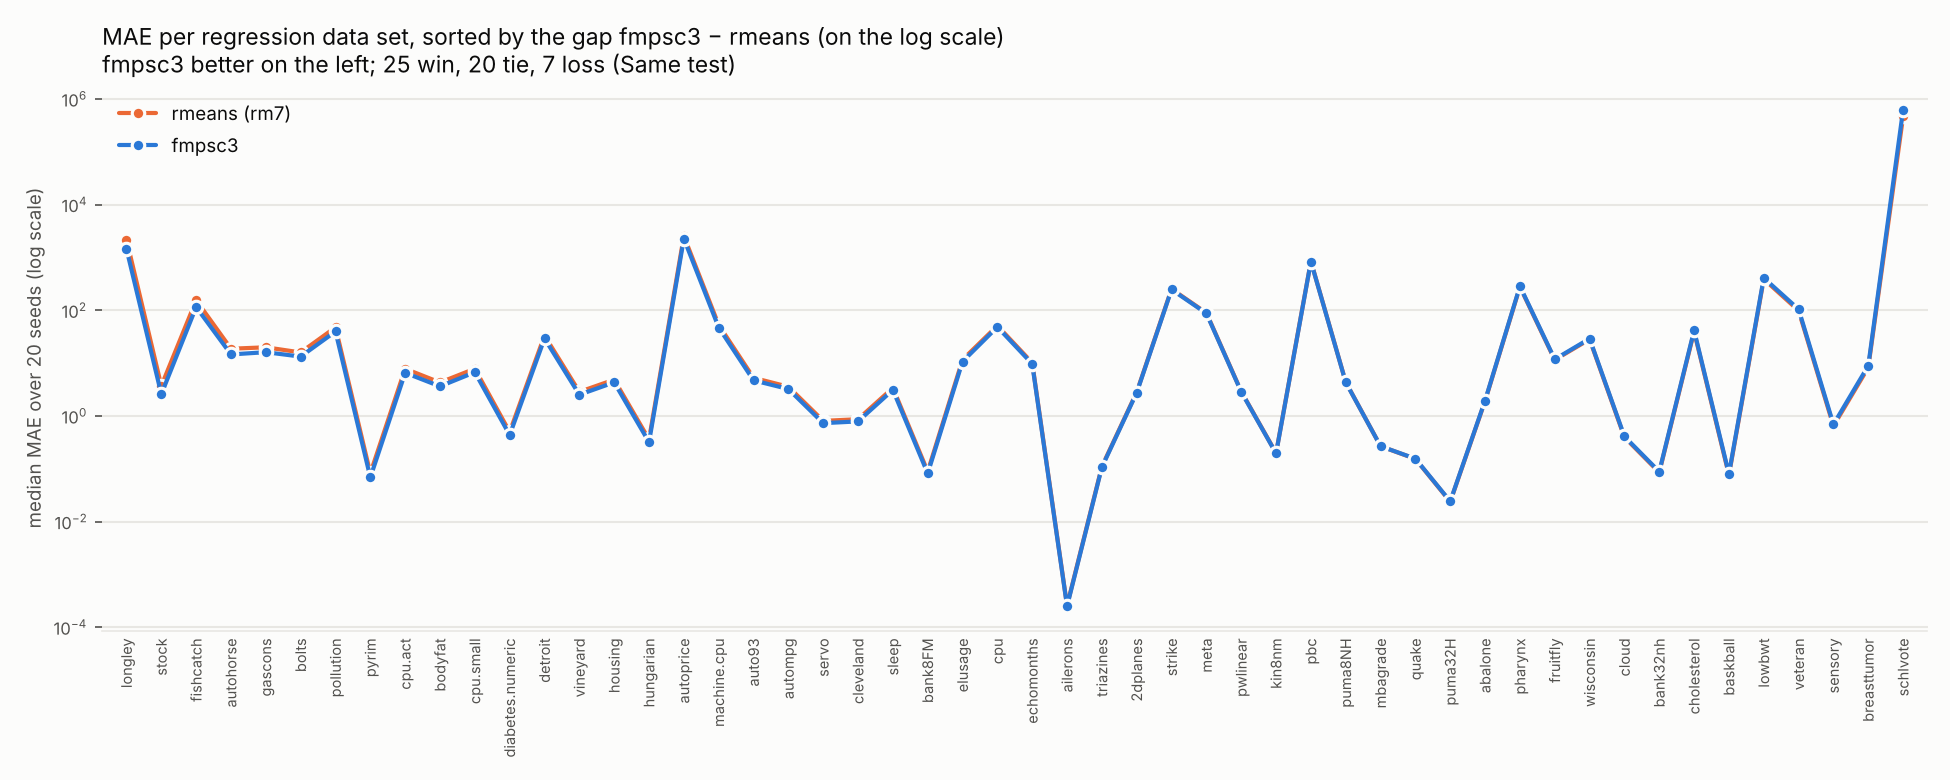
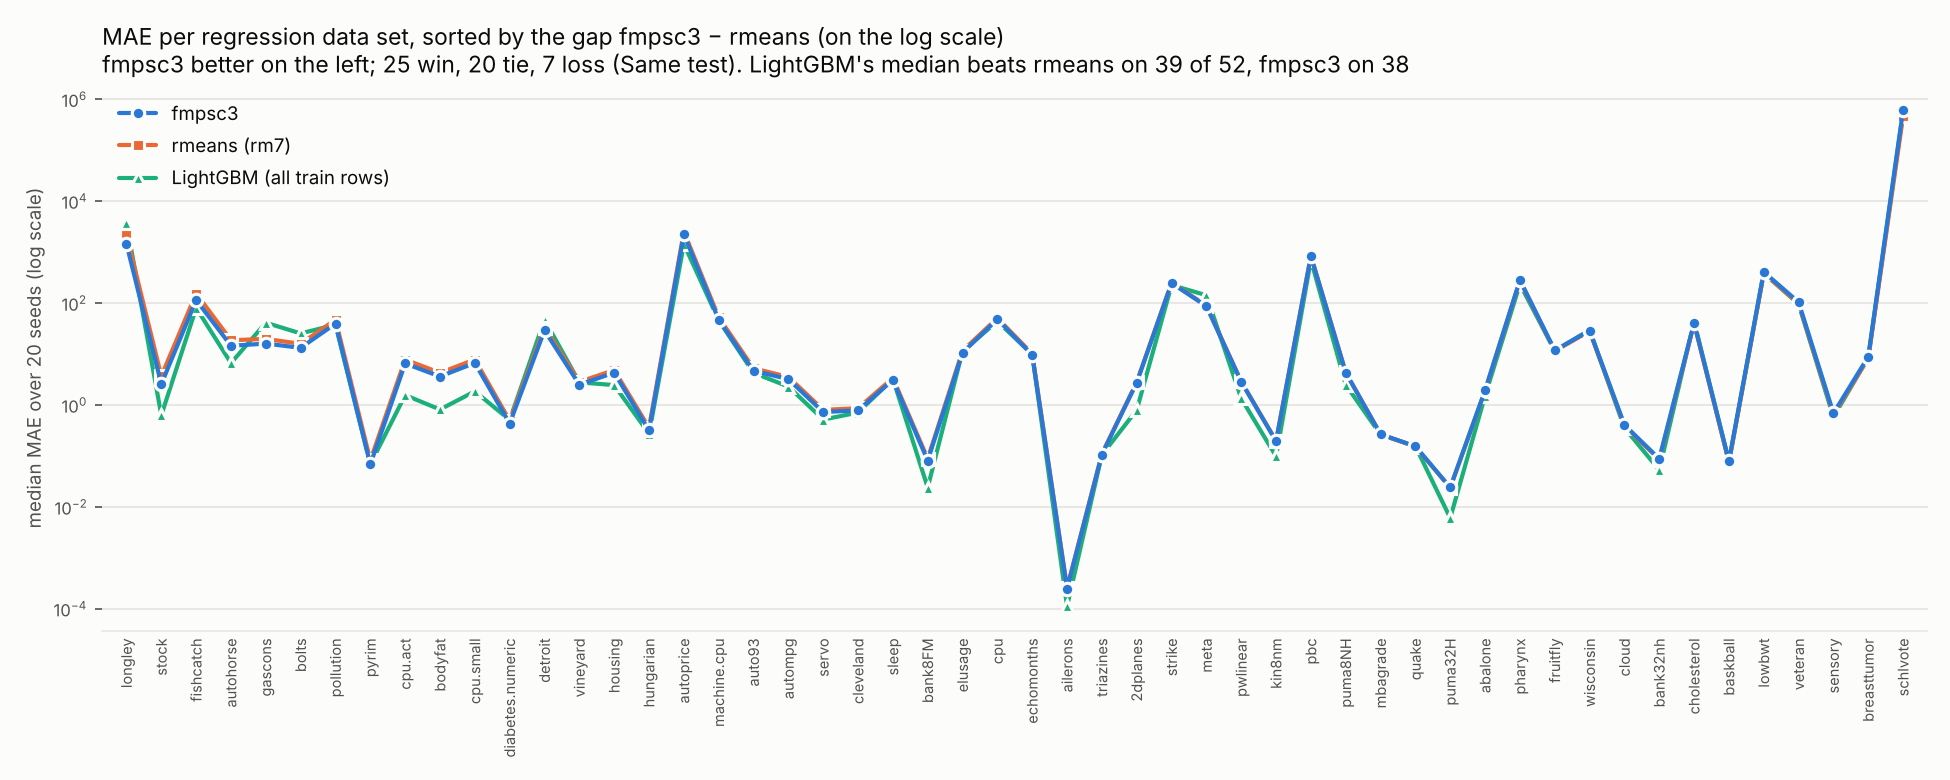
docs/mae.png: add LightGBM as a third line (same seeds, all train rows)
Claude-Session: https://claude.ai/code/session_01NimB8i9o91d6xjpSj9h8K2

diff --git a/,/mae.py b/,/mae.py
@@ -2,19 +2,22 @@ import sys, math
 import matplotlib; matplotlib.use("Agg")
 import matplotlib.pyplot as plt
 rows = [l.split() for l in open(sys.argv[1])]
-rows = [(n, float(a), float(b), v) for n, a, b, v in rows]
+rows = [(n, float(a), float(b), v, float(g)) for n, a, b, v, g in rows]
 rows.sort(key=lambda r: math.log(r[1]) - math.log(r[2]))   # the gap you see
 names = [r[0] for r in rows]; fm = [r[1] for r in rows]; rm = [r[2] for r in rows]
+lg = [r[4] for r in rows]
 wins = sum(r[3] == "win" for r in rows); losses = sum(r[3] == "loss" for r in rows)
 ties = len(rows) - wins - losses
 INK, INK2, GRID, SURF = "#0b0b0b", "#52514e", "#e8e7e3", "#fcfcfb"
-BLUE, ORANGE = "#2a78d6", "#eb6834"
+BLUE, ORANGE, AQUA = "#2a78d6", "#eb6834", "#1baf7a"
 fig, ax = plt.subplots(figsize=(13, 5.2), dpi=150)
 fig.patch.set_facecolor(SURF); ax.set_facecolor(SURF)
 x = range(len(rows))
-for ys, c, lab in [(rm, ORANGE, "rmeans (rm7)"), (fm, BLUE, "fmpsc3")]:
+for ys, c, m, lab, z in [(lg, AQUA, "^", "LightGBM (all train rows)", 2),
+                         (rm, ORANGE, "s", "rmeans (rm7)", 3),
+                         (fm, BLUE, "o", "fmpsc3", 4)]:
     ax.plot(x, ys, color=c, lw=2, solid_joinstyle="round", solid_capstyle="round",
-            marker="o", ms=6, mfc=c, mec=SURF, mew=1.5, label=lab, zorder=3)
+            marker=m, ms=6, mfc=c, mec=SURF, mew=1.5, label=lab, zorder=z)
 ax.set_yscale("log")
 ax.set_xticks(list(x)); ax.set_xticklabels(names, rotation=90, fontsize=7, color=INK2)
 ax.set_xlim(-0.7, len(rows) - 0.3)
@@ -23,10 +26,13 @@ ax.grid(axis="y", which="major", color=GRID, lw=1); ax.set_axisbelow(True)
 for s in ["top", "right", "left"]: ax.spines[s].set_visible(False)
 ax.spines["bottom"].set_color(GRID)
 ax.set_ylabel("median MAE over 20 seeds (log scale)", color=INK2, fontsize=9)
+lw_, lt_ = sum(a < b for a, b in zip(lg, rm)), sum(a < b for a, b in zip(lg, fm))
 ax.set_title(f"MAE per regression data set, sorted by the gap fmpsc3 − rmeans "
              f"(on the log scale)\nfmpsc3 better on the left; {wins} win, "
-             f"{ties} tie, {losses} loss (Same test)", loc="left", fontsize=11,
+             f"{ties} tie, {losses} loss (Same test). LightGBM's median beats rmeans on "
+             f"{lw_} of {len(rows)}, fmpsc3 on {lt_}", loc="left", fontsize=11,
              color=INK)
-leg = ax.legend(loc="upper left", frameon=False, fontsize=9)
+h, l = ax.get_legend_handles_labels()
+leg = ax.legend(h[::-1], l[::-1], loc="upper left", frameon=False, fontsize=9)
 for t in leg.get_texts(): t.set_color(INK)
 fig.tight_layout(); fig.savefig(sys.argv[2], facecolor=SURF)
